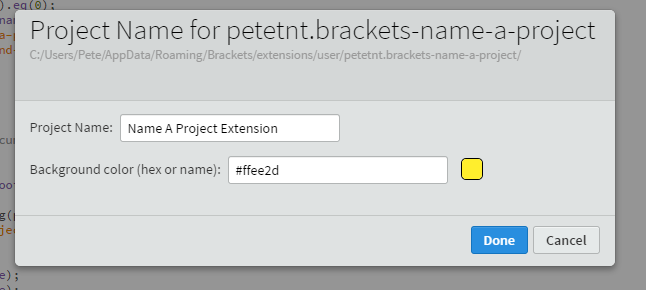
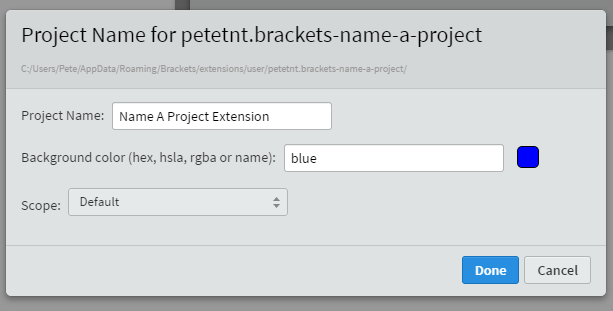
Add project preferences scope, fixes #4

Changed region(s): [[0.0, 0.0, 1.0, 0.9621], [0.0, 0.9931, 0.031, 1.0]]

diff --git a/main.js b/main.js
@@ -32,8 +32,10 @@ define(function (require, exports, module) {
         prefs                     = PreferencesManager.getExtensionPrefs(COMMAND_ID);
 
 
-    /**
-     * Function that runs when "Project Name" is clicked in the File-menu.
+    /*
+     * @private
+     * @method _showProjectNameDialog()
+     * @description Show project-name-dialog "Project Name" is clicked in the File-menu.
      */
     function _showProjectNameDialog() {
         var dialog,
@@ -63,7 +65,8 @@ define(function (require, exports, module) {
                 var config = {},
                     value = dialog.getElement().find("input[name='projectName']").val(),
                     name = value.length ? value : projectRoot._name,
-                    bgColor = bgColorInput.val();
+                    bgColor = bgColorInput.val(),
+                    scope = dialog.getElement().find("#petetnt-scope-selection").val();
 
                 config = {
                     _parentPath: projectRoot._path,
@@ -72,7 +75,7 @@ define(function (require, exports, module) {
                     bgColor: bgColor
                 };
 
-                _setProjectNameConfig(config, projectRoot._path);
+                _setProjectNameConfig(config, projectRoot._path, scope);
             }
         });
 
@@ -83,8 +86,10 @@ define(function (require, exports, module) {
         });
     }
 
-    /**
-     * Prefix Recent folders when the Project Dropdown is opened
+    /*
+     * @private
+     * @method _prefixRecentFolders()
+     * @description Prefix Recent folders when the Project Dropdown is opened
      */   
     function _prefixRecentFolders() {
         var projectDropdown = $("#project-dropdown"),
@@ -104,8 +109,10 @@ define(function (require, exports, module) {
         });
     }
 
-    /**
-     * Rename the Project Title bar and construct document title with the current name
+    /*
+     * @private
+     * @method _renameProjectTitle
+     * @description Rename the Project Title bar and construct document title with the current name
      */     
     function _renameProjectTitle() {
         var projectRoot = ProjectManager.getProjectRoot(),
@@ -119,8 +126,10 @@ define(function (require, exports, module) {
         }
     } 
 
-    /** 
-     *  Rename the window title after DocumentCommandHandler has finished       
+    /*
+     * @private
+     * @method _renameWindowTitle
+     * @description Rename the window title after DocumentCommandHandler has finished       
      */    
     function _renameWindowTitle(name) {
         setTimeout(function () {
@@ -128,7 +137,7 @@ define(function (require, exports, module) {
         }, 1);   
     }
 
-    /**
+    /*
      * Get a object representing the path, original name, current name and background color according to the given path
      * @param {string} path 
      * @returns {Object.<string, string, string, string>} Object of _parentPath, _name, name and bgColor
@@ -138,15 +147,24 @@ define(function (require, exports, module) {
         return namedProjects ? namedProjects[path] : null;
     }
 
-    /**
+    /*
      * Save current config after changes
      * @param {Object.<string, string, string, string>} config Object of _parentPath, _name, name and bgColor
      * @param {string} path Current project path
+     * @param {string} Scope scope to save preference at, can be undefined.
      */       
-    function _setProjectNameConfig(config, path) {
-        var namedProjects = prefs.get("namedProjects") || {};
+    function _setProjectNameConfig(config, path, scope) {
+        if (scope === "default") {
+            scope = prefs.get("defaultScope");    
+        }
+        
+        var namedProjects = scope !== "project" ? (prefs.get("namedProjects") || {}) : {};
         namedProjects[path] = config;
-        prefs.set("namedProjects", namedProjects);
+        prefs.set("namedProjects", namedProjects, {
+            location: {
+                scope: scope
+            }
+        });   
     }
 
     // Listen for changes that require updating the editor titlebar
@@ -154,7 +172,9 @@ define(function (require, exports, module) {
     DocumentManager.on("dirtyFlagChange", _renameProjectTitle);
     DocumentManager.on("fileNameChange", _renameProjectTitle);
     MainViewManager.on("currentFileChange", _renameProjectTitle);
+    
     prefs.on("change", _renameProjectTitle);
+    prefs.definePreference("defaultScope", "string", prefs.get("defaultScope") || "user");
 
     // Handle event dropdown open after htmlReady
     AppInit.htmlReady(function () {

diff --git a/htmlContent/project-name-dialog.html b/htmlContent/project-name-dialog.html
@@ -11,12 +11,21 @@
         <div class="field-container">
             <label>
                 <span>{{Strings.PROJECT_BACKGROUND_COLOR}}:</span> 
-                <input name="colorValue" type="text" placeholder="{{Strings.PROJECT_BACKGROUND_COLOR}}" value="{{bgColor}}" class="url">
+                <input name="colorValue" type="text" placeholder="{{Strings.PROJECT_BACKGROUND_COLOR}}" value="{{bgColor}}" class="url">              
                 <div class="petetnt-name-a-project-color-hint" style="background-color: {{bgColor}}">
                     <span class="color-swatch" style="background-color: {{bgColor}}"></span>
                 </div>
             </label>
-            {{#errorMessage}}<div class="alert" style="margin-bottom: 0">{{{errorMessage}}}</div>{{/errorMessage}}
+        </div>
+        <div class="field-container">
+            <label for="petetnt-scope-selection">
+                {{Strings.PROJECT_SETTINGS_SCOPES.TITLE}}
+                <select id="petetnt-scope-selection">
+                    <option value="default">{{Strings.PROJECT_SETTINGS_SCOPES.DEFAULT}}</option>
+                    <option value="user">{{Strings.PROJECT_SETTINGS_SCOPES.USERGLOBAL}}</option>
+                    <option value="project">{{Strings.PROJECT_SETTINGS_SCOPES.PROJECT}}</option>
+                </select>
+            </label>
         </div>
     </div>
     <div class="modal-footer">

diff --git a/nls/root/strings.js b/nls/root/strings.js
@@ -1,5 +1,11 @@
 define({
-    "PROJECT_NAME": "Project Name",
-    "PROJECT_DIALOG_TITLE": "Project Name for {0}",
-    "PROJECT_BACKGROUND_COLOR": "Background color (hex, hsla, rgba or name)"
+  "PROJECT_NAME": "Project Name",
+  "PROJECT_DIALOG_TITLE": "Project Name for {0}",
+  "PROJECT_BACKGROUND_COLOR": "Background color (hex, hsla, rgba or name)",
+  "PROJECT_SETTINGS_SCOPES": {
+    "TITLE": "Scope:",
+    "DEFAULT": "Default",
+    "USERGLOBAL": "User-global",
+    "PROJECT": "Project level"
+  }
 });

diff --git a/nls/fi/strings.js b/nls/fi/strings.js
@@ -1,5 +1,11 @@
 define({
     "PROJECT_NAME": "Projektin Nimi",
     "PROJECT_DIALOG_TITLE": "Projektin nimi kohteelle {0}",
-    "PROJECT_BACKGROUND_COLOR": "Taustaväri (heksa-, hsl, rgba tai nimiarvo)"
+    "PROJECT_BACKGROUND_COLOR": "Taustaväri (heksa-, hsl, rgba tai nimiarvo)",
+    "PROJECT_SETTINGS_SCOPES": {
+      "TITLE": "Laajuus:",
+      "DEFAULT": "Oletusarvo",
+      "USERGLOBAL": "Käyttäjä-globaali",
+      "PROJECT": "Projekti-taso"
+    }
 });

diff --git a/nls/en-gb/strings.js b/nls/en-gb/strings.js
@@ -1,5 +1,11 @@
 define({
     "PROJECT_NAME": "Project Name",
     "PROJECT_DIALOG_TITLE": "Project Name for {0}",
-    "PROJECT_BACKGROUND_COLOR": "Background colour (Hex, hsla, rgb or name)"
+    "PROJECT_BACKGROUND_COLOR": "Background colour (Hex, hsla, rgb or name)",
+    "PROJECT_SETTINGS_SCOPES": {
+      "TITLE": "Scope:",
+      "DEFAULT": "Default",
+      "USERGLOBAL": "User-global",
+      "PROJECT": "Project level"
+    }
 });

diff --git a/nls/it/strings.js b/nls/it/strings.js
@@ -1,5 +1,11 @@
 define({
     "PROJECT_NAME": "Nome progetto",
     "PROJECT_DIALOG_TITLE": "Nome progetto per {0}",
-    "PROJECT_BACKGROUND_COLOR": "Colore di sfondo (hex, hsla, rgba o nome)"
+    "PROJECT_BACKGROUND_COLOR": "Colore di sfondo (hex, hsla, rgba o nome)",
+    "PROJECT_SETTINGS_SCOPES": {
+      "TITLE": "Scope:",
+      "DEFAULT": "Default",
+      "USERGLOBAL": "User-global",
+      "PROJECT": "Project level"
+    }
 });

diff --git a/style/style.less b/style/style.less
@@ -4,6 +4,12 @@
             display: inline-block;
             vertical-align: top;
             margin-left: 5px;
+        }  
+      
+        & select {
+            display: inline-block;
+            vertical-align: middle;
+            margin-left: 5px;
         }    
 
         & label > span {

diff --git a/README.md b/README.md
@@ -17,6 +17,28 @@ Extension to enable personalized, per-project nicknames for projects.
 
 ![Dropdown menu](/images/dropdown.png)
 
+## Preferences
+
+Following configuration options are available (under `petetnt.brackets-name-a-project`):
+
+### defaultScope (String) 
+> Default: `user` - By default the extension saves the project preferences to the global preferences file `brackets.json`. Changing this to `project` makes the extension save the values to project-level `.brackets.json`.
+
+### namedProjects {Object}
+> Object that consists of objects. The key is the full path to project, and the value for that key is an combination of _parentPath, _name (original name), name (current name) and background color. Automatically created by the dialog.
+
+Example:
+
+``` json
+    "petetnt.brackets-name-a-project.namedProjects": {
+        "C:/Users/Pete/AppData/Roaming/Brackets/extensions/user/petetnt.brackets-name-a-project/": {
+            "_parentPath": "C:/Users/Pete/AppData/Roaming/Brackets/extensions/user/petetnt.brackets-name-a-project/",
+            "_name": "petetnt.brackets-name-a-project",
+            "name": "Name A Project Extension",
+            "bgColor": "blue"
+        }
+    }
+```
 
 ## Licence 
 MIT

diff --git a/VERSIONS.md b/VERSIONS.md
@@ -1,4 +1,7 @@
 ###Versions
+## 0.0.4
+* Added optional scope for the project name settings
+
 ## 0.0.3
 * (Bugfix) Init `namedProjects` with an empty object if it doesn't exits yet
 
